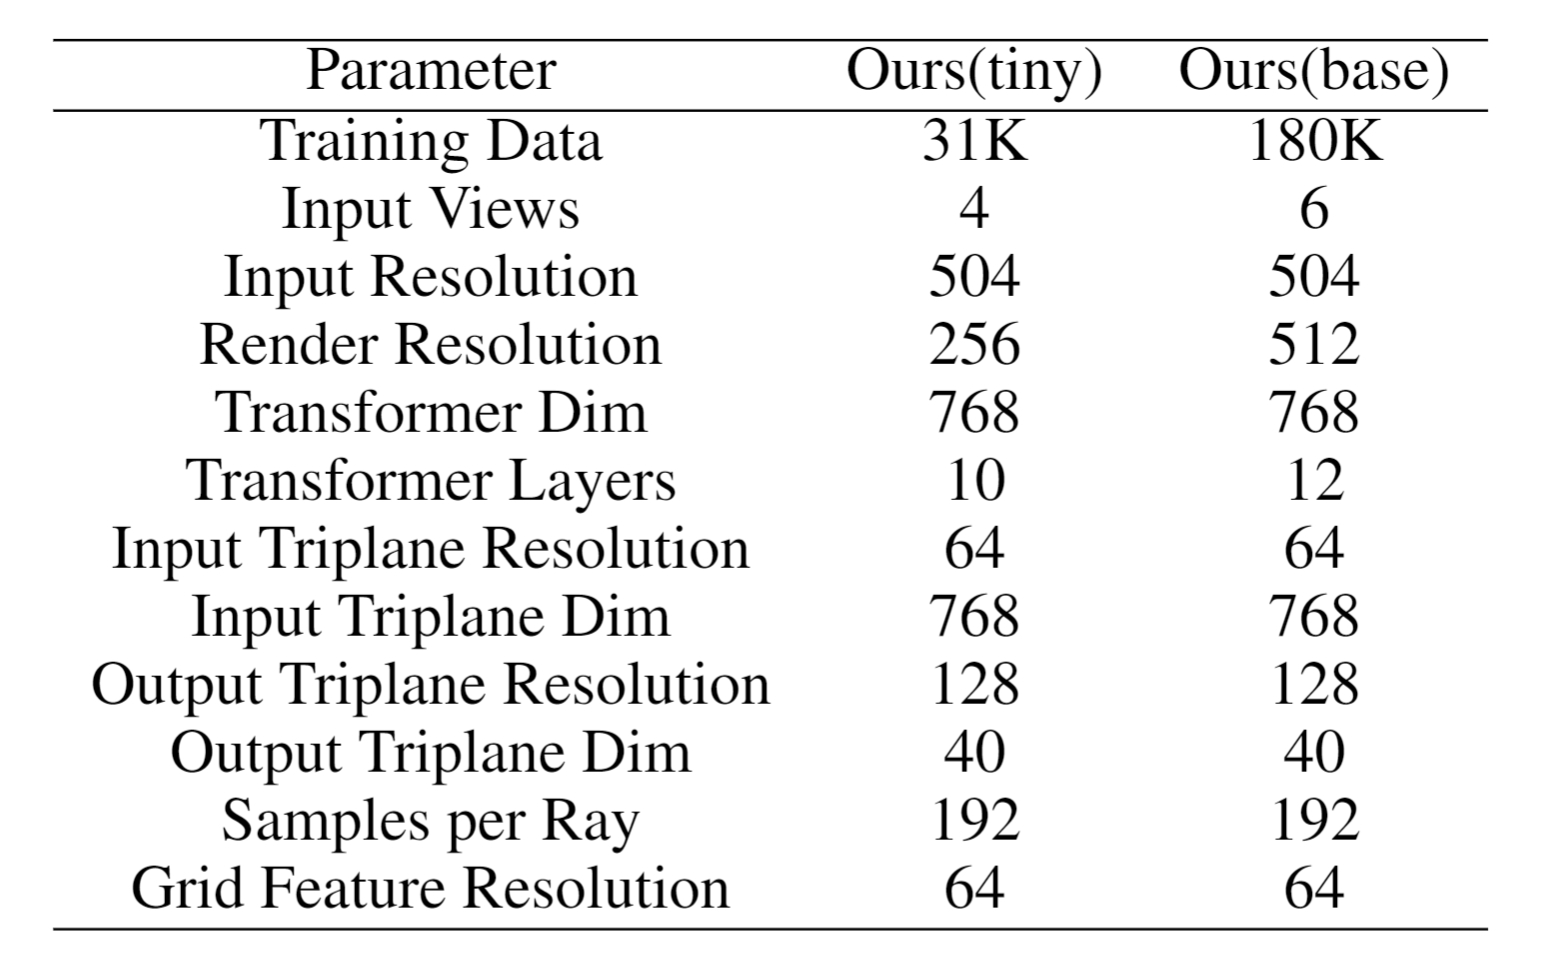
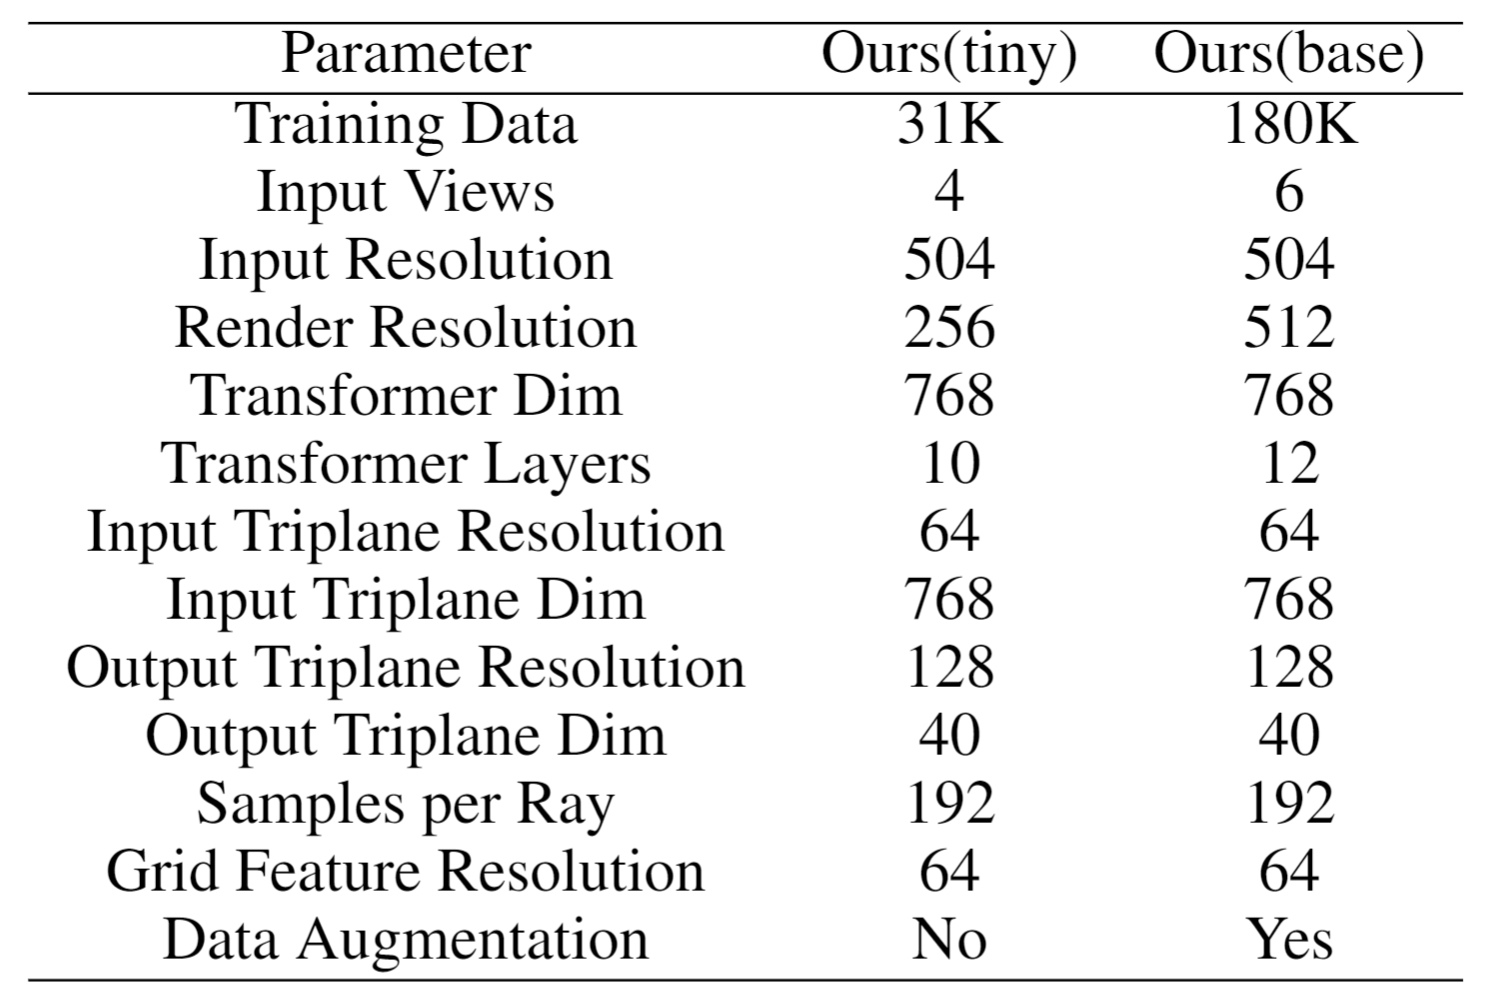
init

Changed region(s): [[0.0309, 0.0, 0.9886, 1.0]]

diff --git a/index.html b/index.html
@@ -32,7 +32,6 @@
   <link rel="stylesheet"
         href="https://cdn.jsdelivr.net/gh/jpswalsh/academicons@1/css/academicons.min.css">
   <link rel="stylesheet" href="./static/css/index.css">
-  <link rel="icon" href="./static/images/favicon.svg">
 
   <script src="https://ajax.googleapis.com/ajax/libs/jquery/3.5.1/jquery.min.js"></script>
   <script defer src="./static/js/fontawesome.all.min.js"></script>
@@ -358,7 +357,7 @@
               <div class="columns is-centered has-text-centered">
                 <div class="column is-full-width">
                   <div class="column">
-                    <h2 class="title is-5">Hyper-parameters
+                    <h2 class="title is-5">Details of Model Design
                     </h2>
                   </div>
             
@@ -373,6 +372,19 @@
                           <p>Generated multiview image and normal maps</p>
                           <p>Mesh</p>
                         </div> -->
+                      </div>
+                    </div>
+                  </div>
+                </div>
+
+                <div class="container is-max-desktop">
+                  <!-- Abstract. -->
+                  <div class="columns is-centered has-text-centered">
+                    <div class="column is-four-fifths">
+                      <div class="content has-text-justified">
+                        <p>
+                          The details and hyper-parameters of our model design. We compare the amount of training data, the input and output settings, and the models' hyper-parameters of our proposed two model variants.
+                        </p><br>
                       </div>
                     </div>
                   </div>
